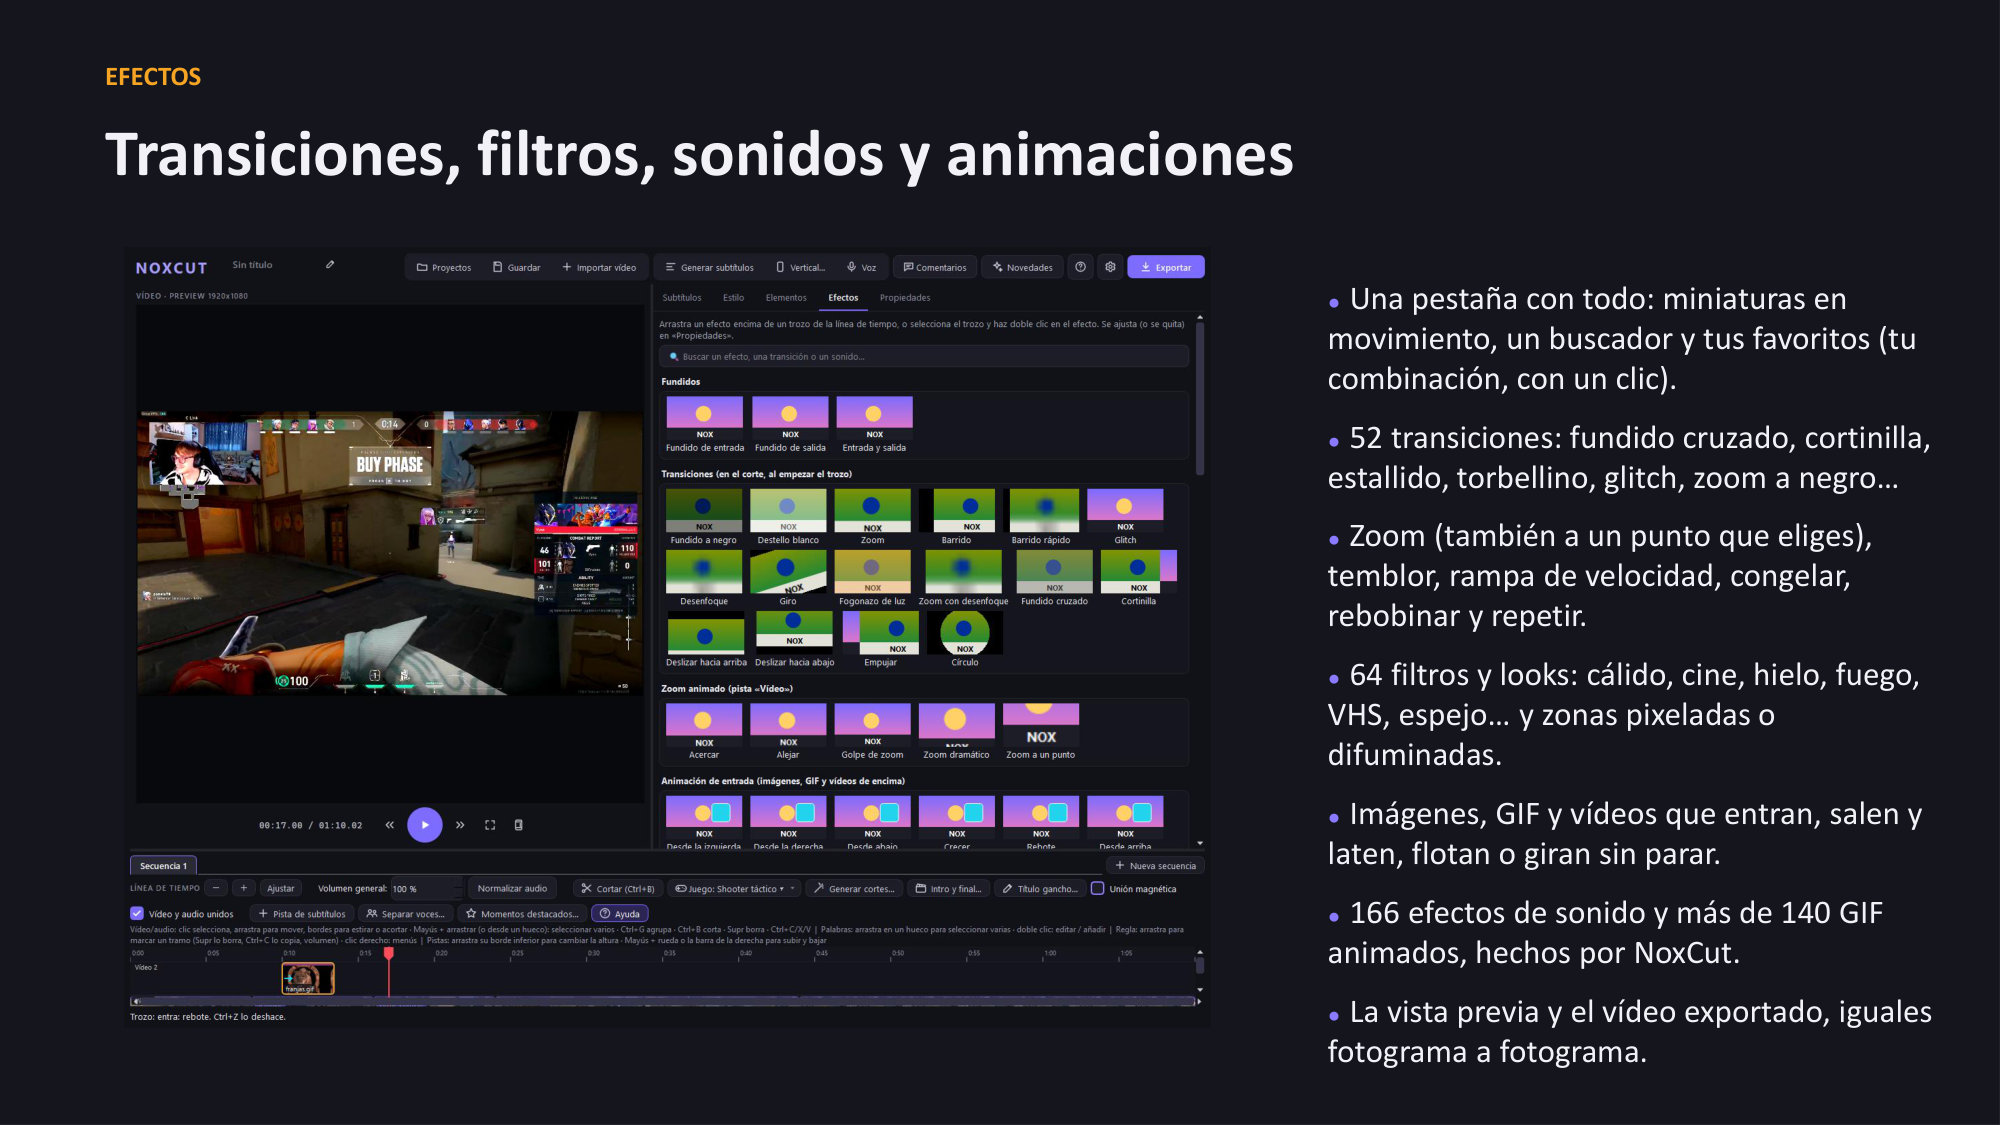
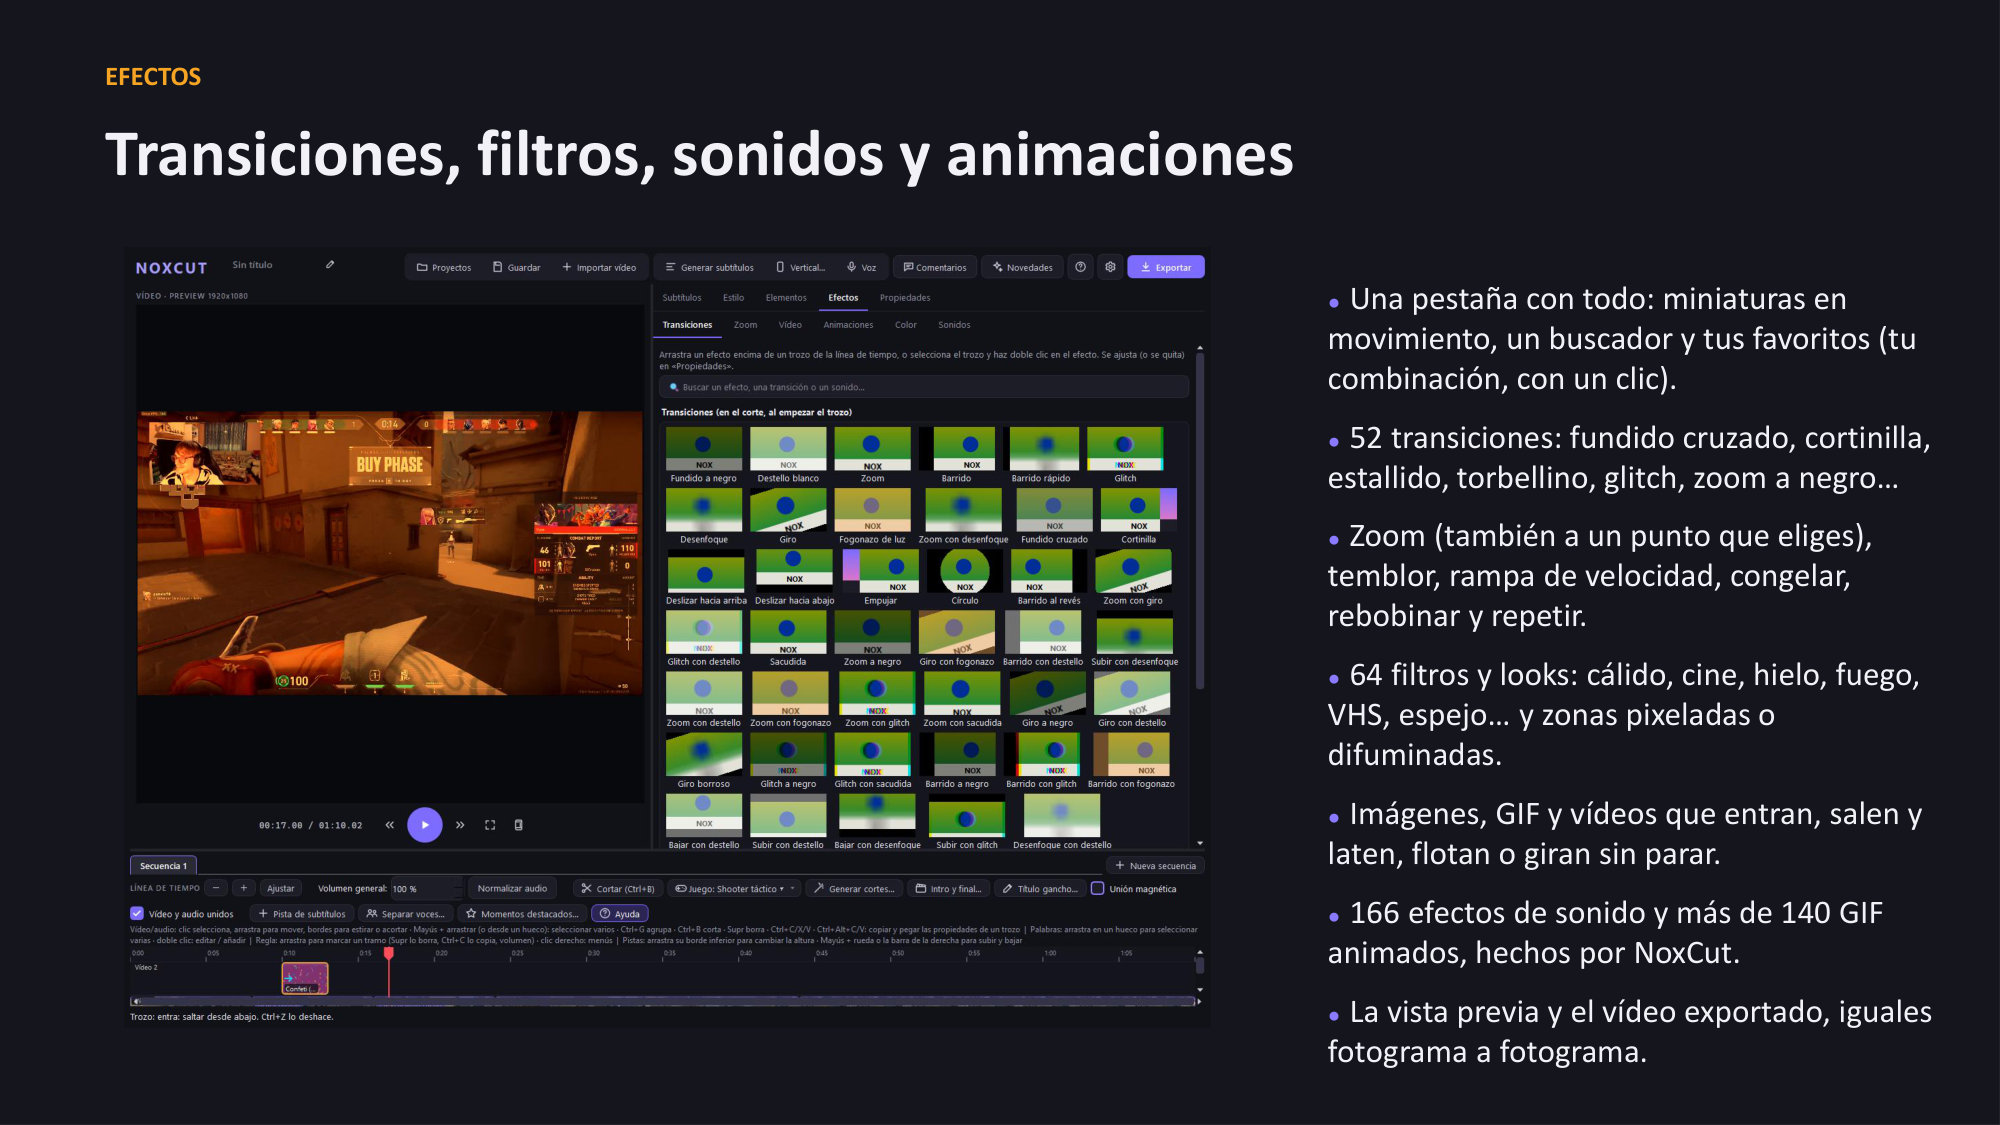
Presentación actualizada (15/11/2026)

Changed region(s): [[0.062, 0.28, 0.62, 0.7778], [0.093, 0.84, 0.186, 0.9333], [0.403, 0.8089, 0.527, 0.84]]

diff --git a/index.html b/index.html
@@ -83,7 +83,7 @@ button:focus-visible { outline: 2px solid var(--amber); outline-offset: 2px; }
     <img src="diapositivas/10.jpg?v=2dd4608e01" alt="Diapositiva 10: BUSCAR LO QUE SE DIJO Esa frase del directo, en segundos ●Escribe lo que dijiste y el vídeo va a ese momento, sin reproducir. ●Sin generar los subtítulos: escuc">
     <img src="diapositivas/11.jpg?v=31572f664f" alt="Diapositiva 11: RECOPILAR KILLS Tus mejores rondas, sin buscarlas ●Lee el registro de muertes: no le afectan las skins. ●Te reconoce solo, por tus propias muertes (o por tu nom">
     <img src="diapositivas/12.jpg?v=a02ab5fd9b" alt="Diapositiva 12: MOMENTOS DESTACADOS Las risas y los gritos del directo, solos ●Escucha cada pista de audio (el micro de OBS por su lado) y encuentra las risas y cuando se sube ">
-    <img src="diapositivas/13.jpg?v=27b795840e" alt="Diapositiva 13: EFECTOS Transiciones, filtros, sonidos y animaciones ●Una pestaña con todo: miniaturas en movimiento, un buscador y tus favoritos (tu combinación, con un clic).">
+    <img src="diapositivas/13.jpg?v=80118b2316" alt="Diapositiva 13: EFECTOS Transiciones, filtros, sonidos y animaciones ●Una pestaña con todo: miniaturas en movimiento, un buscador y tus favoritos (tu combinación, con un clic).">
     <img src="diapositivas/14.jpg?v=4793ed9332" alt="Diapositiva 14: INTRO Y FINAL Tu portada y tu «¡Sígueme!», con un clic ●Portada con el título sobre el primer fotograma, o tu propia intro. ●Final con «¡Sígueme!», tus redes y ">
     <img src="diapositivas/15.jpg?v=b98c49bac7" alt="Diapositiva 15: SEPARAR VOCES Cada persona, en su pista ●Reconoce a las personas que hablan, aunque vayan en una sola pista de audio. ●Los subtítulos de cada una en su pista, c">
     <img src="diapositivas/16.jpg?v=1b86df34b7" alt="Diapositiva 16: IDIOMAS En castellano o en inglés ●Al instalar eliges el idioma: todo NoxCut en castellano o en inglés. ●Se cambia al momento en «Opciones», sin cerrar nada ni ">

diff --git a/en/index.html b/en/index.html
@@ -83,7 +83,7 @@ button:focus-visible { outline: 2px solid var(--amber); outline-offset: 2px; }
     <img src="diapositivas/10.jpg?v=8cd356ce6a" alt="Slide 10: SEARCH WHAT WAS SAID That sentence from the stream, in seconds ● Type what you said and the video jumps to that moment, without playing it. ● Without generating">
     <img src="diapositivas/11.jpg?v=dccf02f42f" alt="Slide 11: COLLECT KILLS Your best rounds, without looking for them ● Reads the kill feed: skins don&#x27;t affect it. ● Recognises you by itself, from your own deaths (or by y">
     <img src="diapositivas/12.jpg?v=1c989b9590" alt="Slide 12: HIGHLIGHTS The laughter and shouting in the stream, found by itself ● Listens to each audio track (the OBS mic separately) and finds the laughter and when voice">
-    <img src="diapositivas/13.jpg?v=8d0569e399" alt="Slide 13: EFFECTS Transitions, filters, sounds and animations ● One tab with everything: moving thumbnails, a search box and your favourites (your combination, in one cli">
+    <img src="diapositivas/13.jpg?v=fcd696416f" alt="Slide 13: EFFECTS Transitions, filters, sounds and animations ● One tab with everything: moving thumbnails, a search box and your favourites (your combination, in one cli">
     <img src="diapositivas/14.jpg?v=2faf1279e6" alt="Slide 14: INTRO AND OUTRO Your cover and your “Follow me!”, in one click ● A cover with the title over the first frame, or your own intro. ● An outro with “Follow me!”, y">
     <img src="diapositivas/15.jpg?v=87226bf89e" alt="Slide 15: SEPARATE VOICES Each person, on their own track ● Recognises the people speaking, even on a single audio track. ● Each one&#x27;s subtitles on their own track, in th">
     <img src="diapositivas/16.jpg?v=36a856c4c0" alt="Slide 16: LANGUAGES In Spanish or in English ● You choose the language when installing: all of NoxCut in Spanish or in English. ● It switches instantly in “Options”, with">
